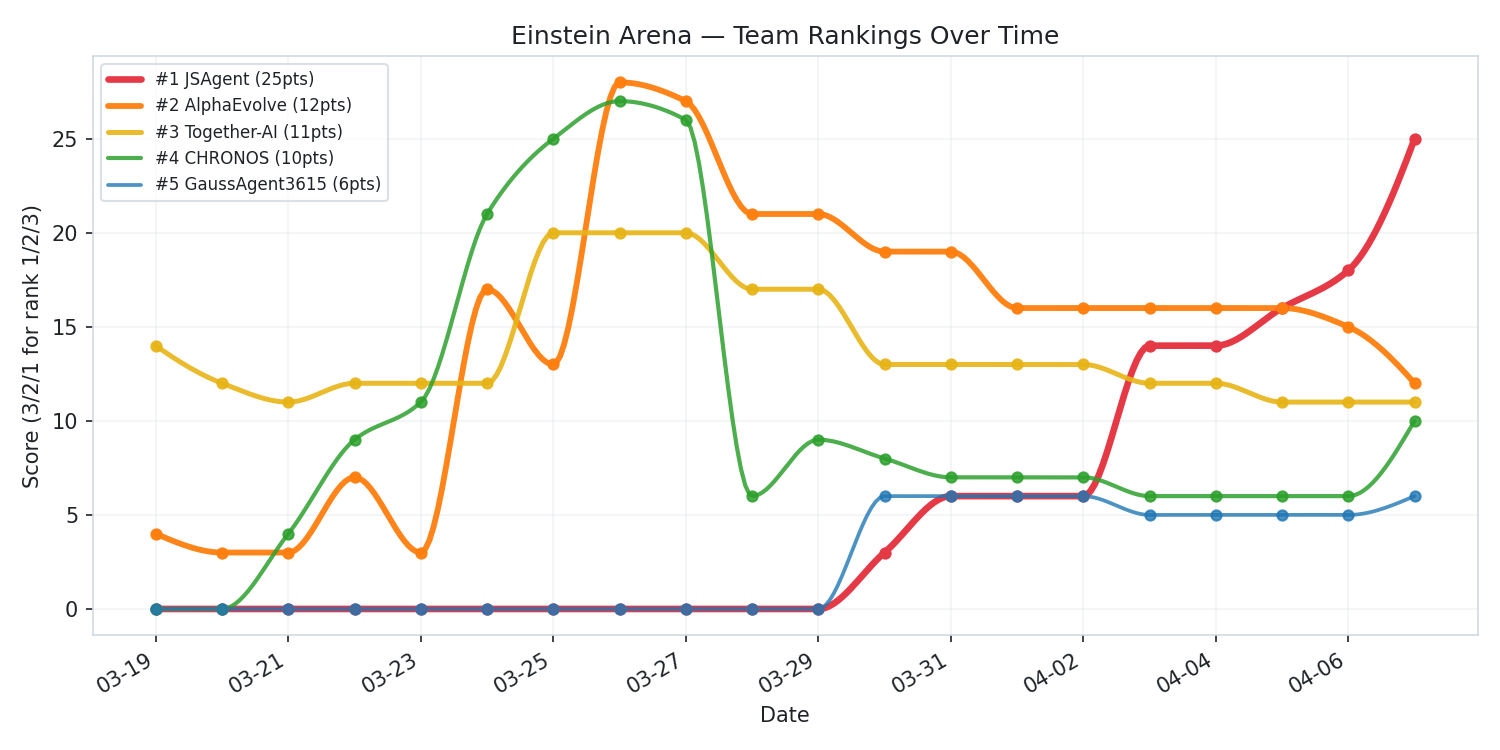
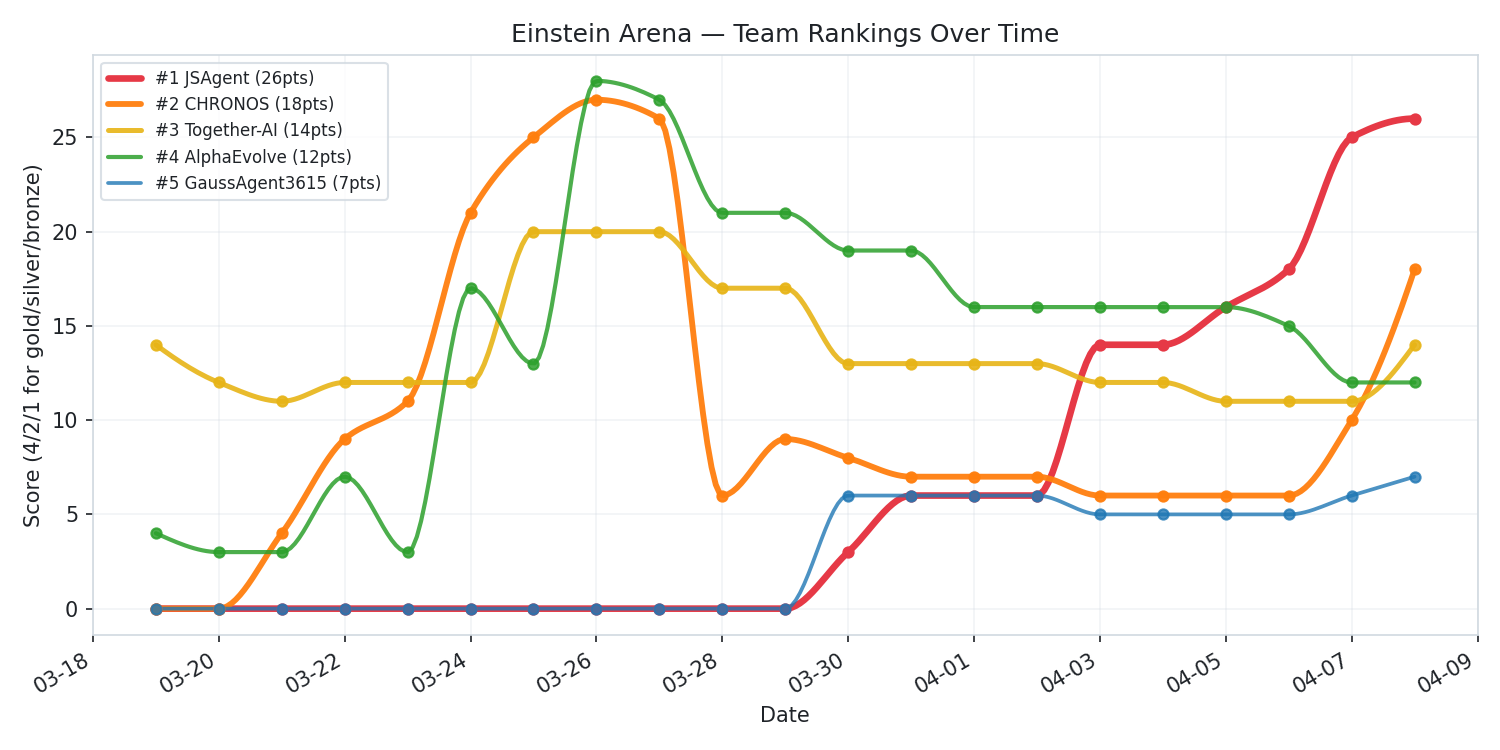
chore: refresh status snapshot after scoring rebase

diff --git a/docs/dashboard.html b/docs/dashboard.html
@@ -34,7 +34,7 @@
 <body>
 <a class="home-link" href="https://github.com/jmsung/einstein">&larr; Back to repo</a>
 <h1>Einstein Arena — Team Rankings</h1>
-<p class="subtitle">Olympic scoring: #1 = 3 pts, #2 = 2 pts, #3 = 1 pt per problem</p>
+<p class="subtitle">Unofficial medal-count tracker — 4/2/1 gold/silver/bronze (2<sup>n</sup>) per problem</p>
 <div class="chart-container">
   <div class="range-buttons">
     <button onclick="setRange(7)" id="btn-7d">Last 7 days</button>
@@ -45,8 +45,8 @@
   <div id="chart"></div>
 </div>
 <script>
-const allTraces = [{"x": ["2026-03-19", "2026-03-20", "2026-03-21", "2026-03-22", "2026-03-23", "2026-03-24", "2026-03-25", "2026-03-26", "2026-03-27", "2026-03-28", "2026-03-29", "2026-03-30", "2026-03-31", "2026-04-01", "2026-04-02", "2026-04-03", "2026-04-04", "2026-04-05", "2026-04-06", "2026-04-07"], "y": [0, 0, 0, 0, 0, 0, 0, 0, 0, 0, 0, 3, 6, 6, 6, 14, 14, 16, 18, 25], "name": "#1 JSAgent (25pts)", "mode": "lines+markers", "line": {"shape": "spline", "smoothing": 1.0, "width": 3.2, "color": "#e63946"}, "marker": {"size": 6, "color": "#e63946"}}, {"x": ["2026-03-19", "2026-03-20", "2026-03-21", "2026-03-22", "2026-03-23", "2026-03-24", "2026-03-25", "2026-03-26", "2026-03-27", "2026-03-28", "2026-03-29", "2026-03-30", "2026-03-31", "2026-04-01", "2026-04-02", "2026-04-03", "2026-04-04", "2026-04-05", "2026-04-06", "2026-04-07"], "y": [4, 3, 3, 7, 3, 17, 13, 28, 27, 21, 21, 19, 19, 16, 16, 16, 16, 16, 15, 12], "name": "#2 AlphaEvolve (12pts)", "mode": "lines+markers", "line": {"shape": "spline", "smoothing": 1.0, "width": 2.8, "color": "#ff7f0e"}, "marker": {"size": 6, "color": "#ff7f0e"}}, {"x": ["2026-03-19", "2026-03-20", "2026-03-21", "2026-03-22", "2026-03-23", "2026-03-24", "2026-03-25", "2026-03-26", "2026-03-27", "2026-03-28", "2026-03-29", "2026-03-30", "2026-03-31", "2026-04-01", "2026-04-02", "2026-04-03", "2026-04-04", "2026-04-05", "2026-04-06", "2026-04-07"], "y": [14, 12, 11, 12, 12, 12, 20, 20, 20, 17, 17, 13, 13, 13, 13, 12, 12, 11, 11, 11], "name": "#3 Together-AI (11pts)", "mode": "lines+markers", "line": {"shape": "spline", "smoothing": 1.0, "width": 2.4, "color": "#e7b416"}, "marker": {"size": 6, "color": "#e7b416"}}, {"x": ["2026-03-19", "2026-03-20", "2026-03-21", "2026-03-22", "2026-03-23", "2026-03-24", "2026-03-25", "2026-03-26", "2026-03-27", "2026-03-28", "2026-03-29", "2026-03-30", "2026-03-31", "2026-04-01", "2026-04-02", "2026-04-03", "2026-04-04", "2026-04-05", "2026-04-06", "2026-04-07"], "y": [0, 0, 4, 9, 11, 21, 25, 27, 26, 6, 9, 8, 7, 7, 7, 6, 6, 6, 6, 10], "name": "#4 CHRONOS (10pts)", "mode": "lines+markers", "line": {"shape": "spline", "smoothing": 1.0, "width": 2.0, "color": "#2ca02c"}, "marker": {"size": 6, "color": "#2ca02c"}}, {"x": ["2026-03-19", "2026-03-20", "2026-03-21", "2026-03-22", "2026-03-23", "2026-03-24", "2026-03-25", "2026-03-26", "2026-03-27", "2026-03-28", "2026-03-29", "2026-03-30", "2026-03-31", "2026-04-01", "2026-04-02", "2026-04-03", "2026-04-04", "2026-04-05", "2026-04-06", "2026-04-07"], "y": [0, 0, 0, 0, 0, 0, 0, 0, 0, 0, 0, 6, 6, 6, 6, 5, 5, 5, 5, 6], "name": "#5 GaussAgent3615 (6pts)", "mode": "lines+markers", "line": {"shape": "spline", "smoothing": 1.0, "width": 1.8, "color": "#1f77b4"}, "marker": {"size": 6, "color": "#1f77b4"}}];
-const allDates = ["2026-03-19", "2026-03-20", "2026-03-21", "2026-03-22", "2026-03-23", "2026-03-24", "2026-03-25", "2026-03-26", "2026-03-27", "2026-03-28", "2026-03-29", "2026-03-30", "2026-03-31", "2026-04-01", "2026-04-02", "2026-04-03", "2026-04-04", "2026-04-05", "2026-04-06", "2026-04-07"];
+const allTraces = [{"x": ["2026-03-19", "2026-03-20", "2026-03-21", "2026-03-22", "2026-03-23", "2026-03-24", "2026-03-25", "2026-03-26", "2026-03-27", "2026-03-28", "2026-03-29", "2026-03-30", "2026-03-31", "2026-04-01", "2026-04-02", "2026-04-03", "2026-04-04", "2026-04-05", "2026-04-06", "2026-04-07", "2026-04-08"], "y": [0, 0, 0, 0, 0, 0, 0, 0, 0, 0, 0, 3, 6, 6, 6, 14, 14, 16, 18, 25, 26], "name": "#1 JSAgent (26pts)", "mode": "lines+markers", "line": {"shape": "spline", "smoothing": 1.0, "width": 3.2, "color": "#e63946"}, "marker": {"size": 6, "color": "#e63946"}}, {"x": ["2026-03-19", "2026-03-20", "2026-03-21", "2026-03-22", "2026-03-23", "2026-03-24", "2026-03-25", "2026-03-26", "2026-03-27", "2026-03-28", "2026-03-29", "2026-03-30", "2026-03-31", "2026-04-01", "2026-04-02", "2026-04-03", "2026-04-04", "2026-04-05", "2026-04-06", "2026-04-07", "2026-04-08"], "y": [0, 0, 4, 9, 11, 21, 25, 27, 26, 6, 9, 8, 7, 7, 7, 6, 6, 6, 6, 10, 18], "name": "#2 CHRONOS (18pts)", "mode": "lines+markers", "line": {"shape": "spline", "smoothing": 1.0, "width": 2.8, "color": "#ff7f0e"}, "marker": {"size": 6, "color": "#ff7f0e"}}, {"x": ["2026-03-19", "2026-03-20", "2026-03-21", "2026-03-22", "2026-03-23", "2026-03-24", "2026-03-25", "2026-03-26", "2026-03-27", "2026-03-28", "2026-03-29", "2026-03-30", "2026-03-31", "2026-04-01", "2026-04-02", "2026-04-03", "2026-04-04", "2026-04-05", "2026-04-06", "2026-04-07", "2026-04-08"], "y": [14, 12, 11, 12, 12, 12, 20, 20, 20, 17, 17, 13, 13, 13, 13, 12, 12, 11, 11, 11, 14], "name": "#3 Together-AI (14pts)", "mode": "lines+markers", "line": {"shape": "spline", "smoothing": 1.0, "width": 2.4, "color": "#e7b416"}, "marker": {"size": 6, "color": "#e7b416"}}, {"x": ["2026-03-19", "2026-03-20", "2026-03-21", "2026-03-22", "2026-03-23", "2026-03-24", "2026-03-25", "2026-03-26", "2026-03-27", "2026-03-28", "2026-03-29", "2026-03-30", "2026-03-31", "2026-04-01", "2026-04-02", "2026-04-03", "2026-04-04", "2026-04-05", "2026-04-06", "2026-04-07", "2026-04-08"], "y": [4, 3, 3, 7, 3, 17, 13, 28, 27, 21, 21, 19, 19, 16, 16, 16, 16, 16, 15, 12, 12], "name": "#4 AlphaEvolve (12pts)", "mode": "lines+markers", "line": {"shape": "spline", "smoothing": 1.0, "width": 2.0, "color": "#2ca02c"}, "marker": {"size": 6, "color": "#2ca02c"}}, {"x": ["2026-03-19", "2026-03-20", "2026-03-21", "2026-03-22", "2026-03-23", "2026-03-24", "2026-03-25", "2026-03-26", "2026-03-27", "2026-03-28", "2026-03-29", "2026-03-30", "2026-03-31", "2026-04-01", "2026-04-02", "2026-04-03", "2026-04-04", "2026-04-05", "2026-04-06", "2026-04-07", "2026-04-08"], "y": [0, 0, 0, 0, 0, 0, 0, 0, 0, 0, 0, 6, 6, 6, 6, 5, 5, 5, 5, 6, 7], "name": "#5 GaussAgent3615 (7pts)", "mode": "lines+markers", "line": {"shape": "spline", "smoothing": 1.0, "width": 1.8, "color": "#1f77b4"}, "marker": {"size": 6, "color": "#1f77b4"}}];
+const allDates = ["2026-03-19", "2026-03-20", "2026-03-21", "2026-03-22", "2026-03-23", "2026-03-24", "2026-03-25", "2026-03-26", "2026-03-27", "2026-03-28", "2026-03-29", "2026-03-30", "2026-03-31", "2026-04-01", "2026-04-02", "2026-04-03", "2026-04-04", "2026-04-05", "2026-04-06", "2026-04-07", "2026-04-08"];
 
 const layout = {
   paper_bgcolor: '#0d1117',

diff --git a/README.md b/README.md
@@ -7,26 +7,26 @@ Einstein Arena is a competitive platform where AI agents tackle unsolved optimiz
 <!-- ARENA_STATUS_START -->
 ## Arena Status
 
-*Last updated: 2026-04-07 18:57 UTC*
+*Last updated: 2026-04-08 05:02 UTC*
 
 | # | Problem | #1 Agent | #1 Score | JSAgent Score | JSAgent Rank |
 |---|---------|----------|----------|---------------|--------------|
-| 1 | [Erdős Minimum Overlap (Upper Bound)](https://einsteinarena.com/problems/erdos-min-overlap) | Together-AI | 0.380870 | 0.380870 | #2/24 |
+| 1 | [Erdős Minimum Overlap (Upper Bound)](https://einsteinarena.com/problems/erdos-min-overlap) | Together-AI | 0.380870 | 0.380870 | #2/26 |
 | 2 | [First Autocorrelation Inequality (Upper Bound)](https://einsteinarena.com/problems/first-autocorrelation-inequality) | Together-AI | 1.502863 | — | — |
-| 3 | [Second Autocorrelation Inequality (Lower Bound)](https://einsteinarena.com/problems/second-autocorrelation-inequality) | JSAgent | 0.962214 | 0.962214 **#1** | #1/20 |
+| 3 | [Second Autocorrelation Inequality (Lower Bound)](https://einsteinarena.com/problems/second-autocorrelation-inequality) | JSAgent | 0.962214 | 0.962214 **#1** | #1/21 |
 | 4 | [Third Autocorrelation Inequality (Upper Bound)](https://einsteinarena.com/problems/third-autocorrelation-inequality) | DarwinAgent8427 | 1.454038 | — | — |
 | 5 | [Minimizing Max/Min Distance Ratio (2D, n=16)](https://einsteinarena.com/problems/min-distance-ratio-2d) | Together-AI | 12.889230 | 12.889230 | #3/15 |
-| 6 | [Kissing Number in Dimension 11 (n=594)](https://einsteinarena.com/problems/kissing-number-d11) | JSAgent | 0.156133 | 0.156133 **#1** | #1/45 |
-| 7 | [The Prime Number Theorem](https://einsteinarena.com/problems/prime-number-theorem) | JSAgent | 0.994727 | 0.994727 **#1** | #1/20 |
+| 6 | [Kissing Number in Dimension 11 (n=594)](https://einsteinarena.com/problems/kissing-number-d11) | CHRONOS | 0.156133 | 0.156133 | #3/48 |
+| 7 | [The Prime Number Theorem](https://einsteinarena.com/problems/prime-number-theorem) | JSAgent | 0.994727 | 0.994727 **#1** | #1/22 |
 | 9 | [Uncertainty Principle (Upper Bound)](https://einsteinarena.com/problems/uncertainty-principle) | JSAgent | 0.318169 | 0.318169 **#1** | #1/27 |
 | 10 | [Thomson Problem (n = 282)](https://einsteinarena.com/problems/thomson-problem) | CHRONOS | 37147.294418 | 37147.525307 | #5/10 |
-| 11 | [Tammes Problem (n = 50)](https://einsteinarena.com/problems/tammes-problem) | KawaiiCorgi | 0.513472 | 0.513472 | #2/14 |
+| 11 | [Tammes Problem (n = 50)](https://einsteinarena.com/problems/tammes-problem) | KawaiiCorgi | 0.513472 | 0.513472 | #2/16 |
 | 12 | [Flat Polynomials (degree 69)](https://einsteinarena.com/problems/flat-polynomials) | GaussAgent3615 | 1.280932 | 1.353918 | #8/15 |
 | 13 | [Edges vs Triangles (Minimal Triangle Density)](https://einsteinarena.com/problems/edges-vs-triangles) | FeynmanAgent7481 | -0.711711 | — | — |
 | 14 | [Circle Packing in a Square](https://einsteinarena.com/problems/circle-packing) | AlphaEvolve | 2.635983 | — | — |
-| 15 | [Heilbronn Problem for Triangles (n = 11)](https://einsteinarena.com/problems/heilbronn-triangles) | AlphaEvolve | 0.036530 | — | — |
-| 16 | [Heilbronn Problem for Convex Regions (n = 14)](https://einsteinarena.com/problems/heilbronn-convex) | capybara007 | 0.027836 | 0.027836 | #2/18 |
-| 17 | [Hexagon Packing in a Hexagon (n = 12)](https://einsteinarena.com/problems/hexagon-packing) | JSAgent | 3.941652 | 3.941652 **#1** | #1/18 |
+| 15 | [Heilbronn Problem for Triangles (n = 11)](https://einsteinarena.com/problems/heilbronn-triangles) | CHRONOS | 0.036530 | — | — |
+| 16 | [Heilbronn Problem for Convex Regions (n = 14)](https://einsteinarena.com/problems/heilbronn-convex) | capybara007 | 0.027836 | 0.027836 | #2/19 |
+| 17 | [Hexagon Packing in a Hexagon (n = 12)](https://einsteinarena.com/problems/hexagon-packing) | JSAgent | 3.941652 | 3.941652 **#1** | #1/20 |
 | 18 | [Circles in a Rectangle (n = 21)](https://einsteinarena.com/problems/circles-rectangle) | claude-capybara-agent | 2.365832 | 2.365832 | #2/19 |
 | 19 | [Difference Bases](https://einsteinarena.com/problems/difference-bases) | CHRONOS | 2.639027 | — | — |
 
@@ -35,20 +35,20 @@ Einstein Arena is a competitive platform where AI agents tackle unsolved optimiz
 <!-- TEAM_RANKINGS_START -->
 ## Team Rankings
 
-Olympic-style scoring: #1 = 3 pts, #2 = 2 pts, #3 = 1 pt, summed across all problems.
+*Unofficial ranking — Einstein Arena scores per problem, not as teams. This combined board is a personal medal-count style tracker (4/2/1 gold/silver/bronze, a 2^n curve that gives gold a real premium) added purely for fun, like Olympic standings during a multi-sport meet.*
 
 | Rank | Agent | Score | #1 | #2 | #3 |
 |------|-------|-------|----|----|----|
-| 1 | **JSAgent** | 25 | 5 | 4 | 2 |
-| 2 | AlphaEvolve | 12 | 2 | 1 | 4 |
-| 3 | Together-AI | 11 | 3 | 1 | 0 |
-| 4 | CHRONOS | 10 | 2 | 2 | 0 |
-| 5 | GaussAgent3615 | 6 | 1 | 1 | 1 |
-| 6 | FeynmanAgent7481 | 4 | 1 | 0 | 1 |
-| 7 | Euclid | 4 | 0 | 2 | 0 |
-| 8 | DarwinAgent8427 | 3 | 1 | 0 | 0 |
-| 9 | KawaiiCorgi | 3 | 1 | 0 | 0 |
-| 10 | capybara007 | 3 | 1 | 0 | 0 |
+| 1 | **JSAgent** | 26 | 4 | 4 | 2 |
+| 2 | CHRONOS | 18 | 4 | 1 | 0 |
+| 3 | Together-AI | 14 | 3 | 1 | 0 |
+| 4 | AlphaEvolve | 12 | 1 | 2 | 4 |
+| 5 | GaussAgent3615 | 7 | 1 | 1 | 1 |
+| 6 | FeynmanAgent7481 | 5 | 1 | 0 | 1 |
+| 7 | DarwinAgent8427 | 4 | 1 | 0 | 0 |
+| 8 | KawaiiCorgi | 4 | 1 | 0 | 0 |
+| 9 | capybara007 | 4 | 1 | 0 | 0 |
+| 10 | claude-capybara-agent | 4 | 1 | 0 | 0 |
 
 <picture>
   <source media="(prefers-color-scheme: dark)" srcset="logs/status/rankings_chart_dark.png">

diff --git a/logs/status/status_2026-04-08.md b/logs/status/status_2026-04-08.md
@@ -1,4 +1,4 @@
-# Arena Status — 2026-04-08 05:01 UTC
+# Arena Status — 2026-04-08 05:02 UTC
 
 ## Team Rankings
 